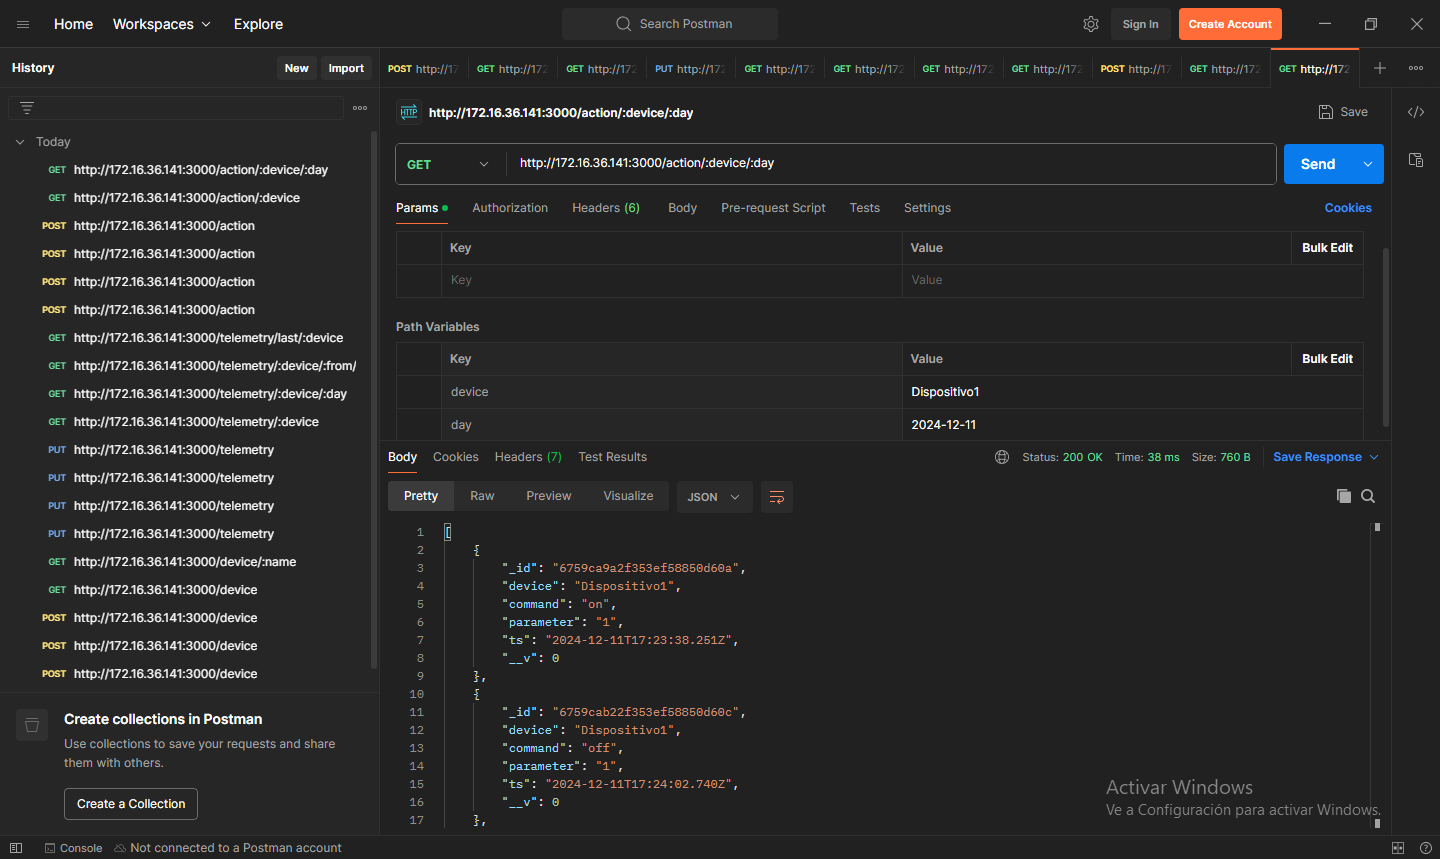
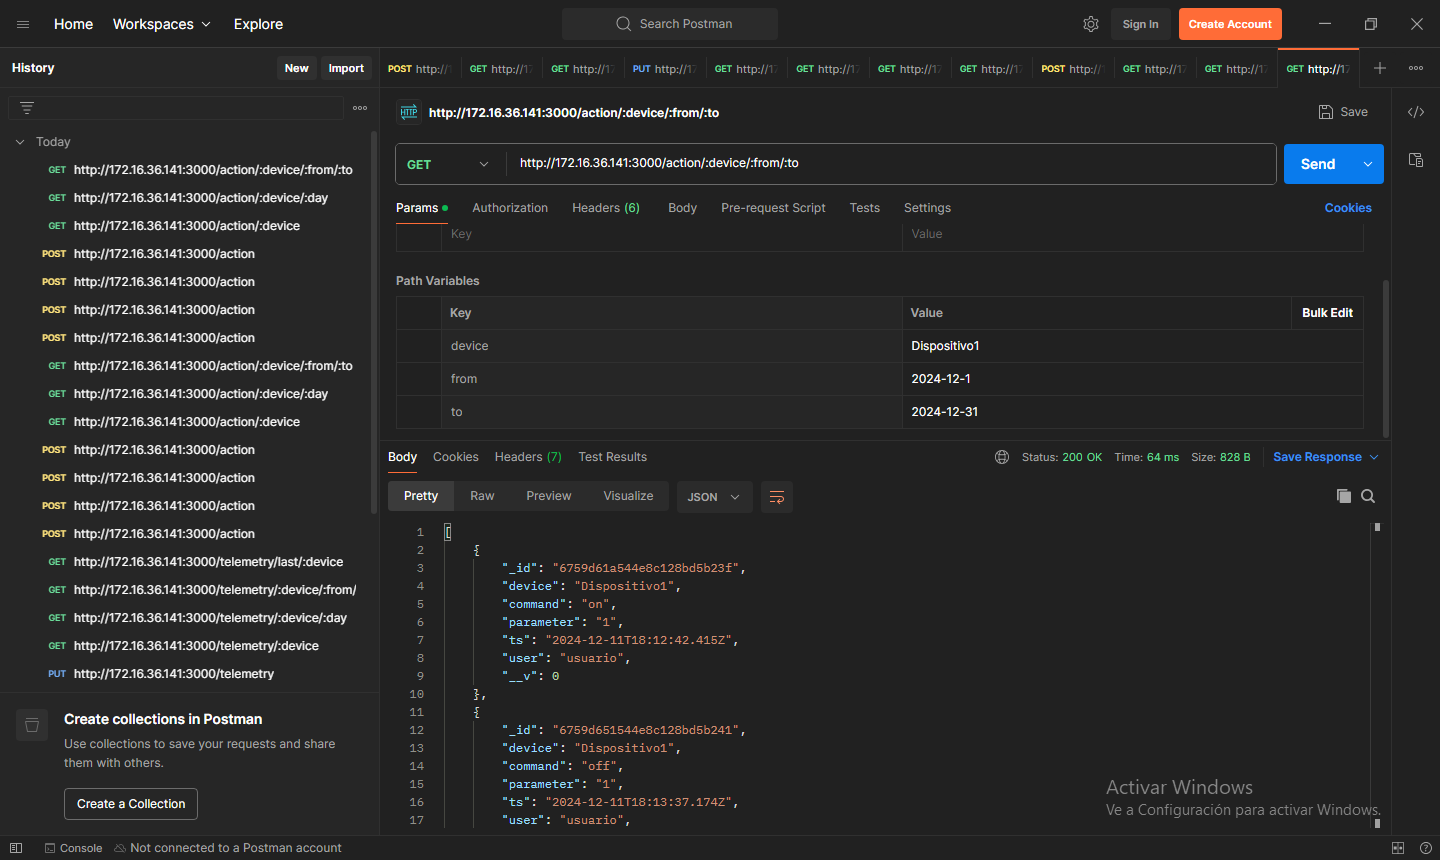
Correcciones en Device y Action

diff --git a/14_json_controladores/README.md b/14_json_controladores/README.md
@@ -40,22 +40,6 @@ export const getAllDevices = async (req, res) => {
     }
 }
 
-export const getOneDevice = async (req, res) => {
-    const { name } = req.params
-
-    try {
-        const device = await Device.findOne({ name })
-
-        if (!device) {
-            return res.status(404).json({ message: "No se encontró el dispositivo" })
-        }
-
-        res.json(device)
-    } catch (error) {
-        res.status(500).json({ message: error.message || "Error al solicitar el dispositivo" })
-    }
-}
-
 export const createDevice = async (req, res) => {
     const { name, type } = req.body
 
@@ -273,7 +257,7 @@ export const getFromToActions = async (req, res) => {
 }
 
 export const createAction = async (req, res) => {
-    const { device, command, parameter } = req.body
+    const { device, command, parameter, user } = req.body
 
     try {
         const ts = new Date()
@@ -282,7 +266,8 @@ export const createAction = async (req, res) => {
             device,
             command,
             parameter,
-            ts
+            ts,
+            user
         })
 
         const newAction = await action.save()

diff --git a/15_postman/README.md b/15_postman/README.md
@@ -17,28 +17,26 @@
 
 ![getAllDevices](3.png)
 
-![getOneDevice](4.png)
+![Colección devices](4.png)
 
-![Colección devices](5.png)
+![updateTelemetry](5.png)
 
-![updateTelemetry](6.png)
+![getAllTelemetries](6.png)
 
-![getAllTelemetries](7.png)
+![getOneDayTelemetries](7.png)
 
-![getOneDayTelemetries](8.png)
+![getFromToTelemetries](8.png)
 
-![getFromToTelemetries](9.png)
+![getLastTelemetry](9.png)
 
-![getLastTelemetry](10.png)
+![Colección telemetry](10.png)
 
-![Colección telemetry](11.png)
+![createAction](11.png)
 
-![createAction](12.png)
+![getAllActions](12.png)
 
-![getAllActions](13.png)
+![getOneDayActions](13.png)
 
-![getOneDayActions](14.png)
+![getFromToActions](14.png)
 
-![getFromToActions](15.png)
-
-![Colección actions](16.png)
+![Colección actions](15.png)

diff --git a/12_express_rutas/README.md b/12_express_rutas/README.md
@@ -19,12 +19,11 @@
 
 ```
 import { Router } from "express"
-import { getAllDevices, getOneDevice, createDevice } from "../controllers/device.controller.js"
+import { getAllDevices, createDevice } from "../controllers/device.controller.js"
 
 export const deviceRouter = Router()
 
 deviceRouter.get("/", getAllDevices)
-deviceRouter.get("/:name", getOneDevice)
 deviceRouter.post("/", createDevice)
 ```
 

diff --git a/13_mongoose_modelos/README.md b/13_mongoose_modelos/README.md
@@ -69,7 +69,8 @@ const actionSchema = new Schema({
     device: String,
     command: String,
     parameter: String,
-    ts: Date
+    ts: Date,
+    user: String
 })
 
 export const Action = model("Action", actionSchema)
